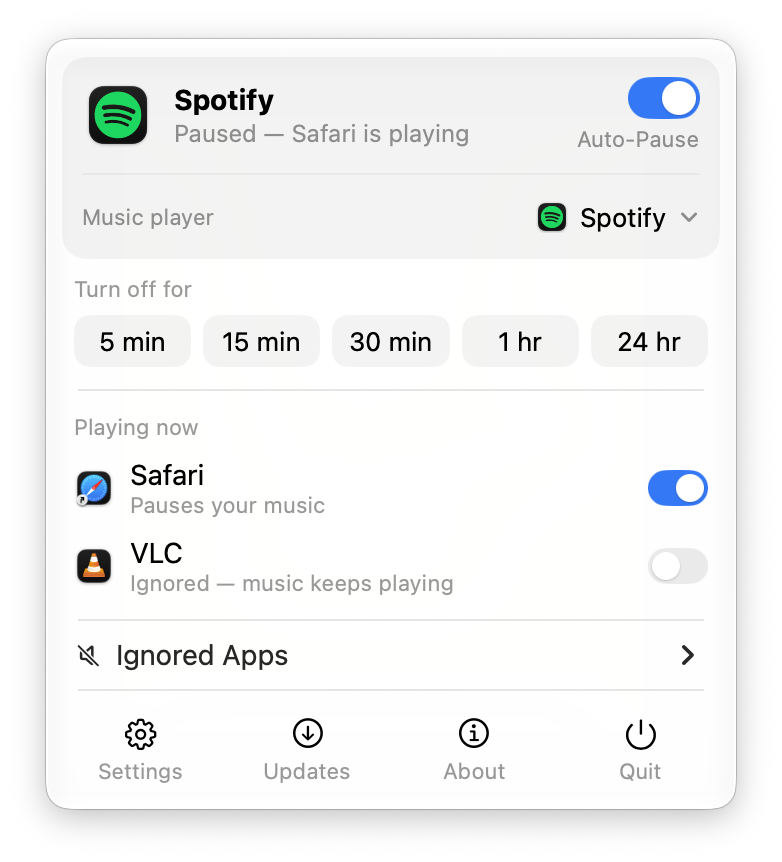
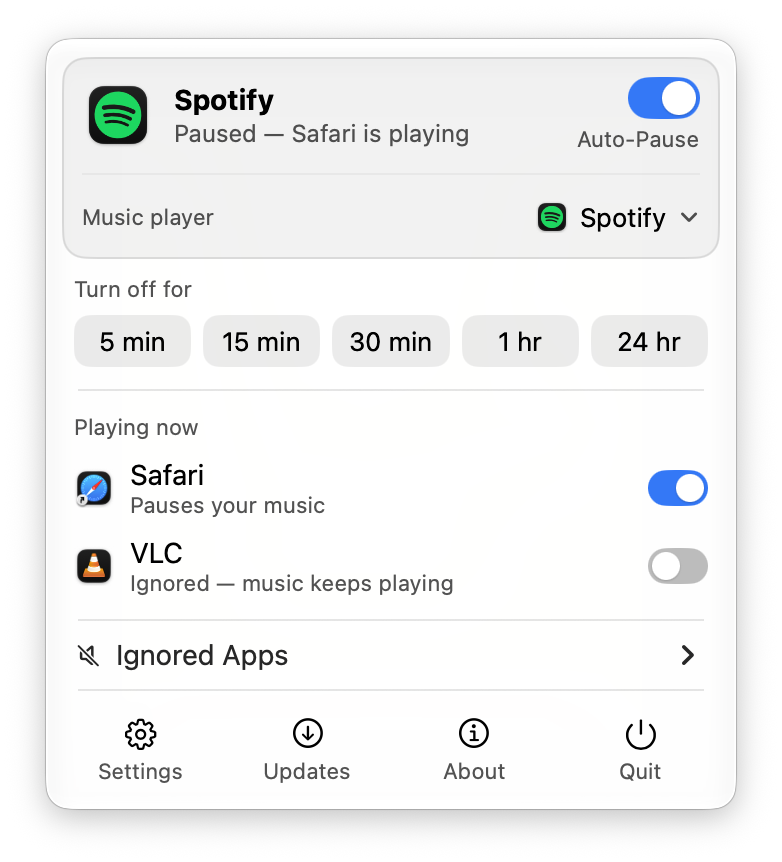
feat: easier to read in light mode
Descriptions, labels and warnings in the menu, Settings and the welcome
window were faint in light mode: secondary text measured 2.4:1 against
the menu's white, the orange warning 2.1:1, and cards and switches that
are off barely showed. Their colors are now named styles with a light
and a dark value. In light mode, text is darker (5.5:1 or more), the
warning a deeper orange (4.75:1), and cards have an outline. Chips and
switches that are off are a step darker. Dark mode is unchanged. The
README's light screenshots show the new look.

diff --git a/Sources/AutoHushApp/General/CardStyles.swift b/Sources/AutoHushApp/General/CardStyles.swift
@@ -17,6 +17,59 @@ extension Font {
     static let appCaption = Font.system(size: 11)
 }
 
+/// A style with one value in light mode and another in dark mode. The
+/// system's secondary text, orange and fills are too faint in light mode,
+/// on the menu's white and on Settings' grey, so light mode gets darker ones;
+/// dark mode keeps the system's.
+struct AppearanceStyle: ShapeStyle {
+    let light: AnyShapeStyle
+    let dark: AnyShapeStyle
+
+    init(light: some ShapeStyle, dark: some ShapeStyle) {
+        self.light = AnyShapeStyle(light)
+        self.dark = AnyShapeStyle(dark)
+    }
+
+    func resolve(in environment: EnvironmentValues) -> AnyShapeStyle {
+        environment.colorScheme == .dark ? dark : light
+    }
+}
+
+/// The colors the menu, Settings and the welcome window share. In light
+/// mode, text keeps a contrast of at least 4.5:1 against its background.
+extension ShapeStyle where Self == AppearanceStyle {
+    /// Descriptions under rows, section labels and captions.
+    static var appSecondary: AppearanceStyle {
+        AppearanceStyle(light: Color.black.opacity(0.68), dark: .secondary)
+    }
+    /// Text and icons that need the user's attention: a deep orange in light
+    /// mode, where the system's is hard to read.
+    static var appWarning: AppearanceStyle {
+        AppearanceStyle(light: Color(red: 0xB0 / 255, green: 0x30 / 255, blue: 0), dark: .orange)
+    }
+    /// A card's background.
+    static var cardFill: AppearanceStyle {
+        AppearanceStyle(light: Color.black.opacity(0.05), dark: .quaternary.opacity(0.6))
+    }
+    /// A card's outline: in light mode only, where the fill alone barely
+    /// shows against the menu's white.
+    static var cardBorder: AppearanceStyle {
+        AppearanceStyle(light: Color.black.opacity(0.1), dark: Color.clear)
+    }
+    /// A filled chip's background, at rest.
+    static var chipFill: AppearanceStyle {
+        AppearanceStyle(light: Color.black.opacity(0.08), dark: .quaternary.opacity(0.6))
+    }
+    /// A chip's background under the pointer: a step above `chipFill`.
+    static var chipHoverFill: AppearanceStyle {
+        AppearanceStyle(light: Color.black.opacity(0.13), dark: .quaternary)
+    }
+    /// A switch's track while it's off.
+    static var switchOffFill: AppearanceStyle {
+        AppearanceStyle(light: Color.black.opacity(0.26), dark: .quaternary)
+    }
+}
+
 /// A switch drawn in the accent color, the same in the menu and in Settings.
 /// The system's switch would be grey in the menu: menus draw it inactive,
 /// since AutoHush doesn't become the active app when its menu opens.
@@ -27,7 +80,7 @@ struct PillToggleStyle: ToggleStyle {
     func makeBody(configuration: Configuration) -> some View {
         Button { configuration.isOn.toggle() } label: {
             Capsule()
-                .fill(configuration.isOn ? AnyShapeStyle(Color.accentColor) : AnyShapeStyle(.quaternary))
+                .fill(configuration.isOn ? AnyShapeStyle(Color.accentColor) : AnyShapeStyle(.switchOffFill))
                 .frame(width: width, height: height)
                 .overlay(alignment: configuration.isOn ? .trailing : .leading) {
                     Circle().fill(.white).shadow(color: .black.opacity(0.2), radius: 0.5, y: 0.5).padding(2)
@@ -81,10 +134,10 @@ struct ChipButtonStyle: ButtonStyle {
 
         private var fill: AnyShapeStyle {
             if isSelected { return AnyShapeStyle(Color.accentColor.opacity(isPressed ? 0.8 : 1)) }
-            guard isEnabled else { return filled ? AnyShapeStyle(.quaternary.opacity(0.6)) : AnyShapeStyle(.clear) }
+            guard isEnabled else { return filled ? AnyShapeStyle(.chipFill) : AnyShapeStyle(.clear) }
             if isPressed { return AnyShapeStyle(.tertiary) }
-            if isHovered { return AnyShapeStyle(.quaternary) }
-            return filled ? AnyShapeStyle(.quaternary.opacity(0.6)) : AnyShapeStyle(.clear)
+            if isHovered { return AnyShapeStyle(.chipHoverFill) }
+            return filled ? AnyShapeStyle(.chipFill) : AnyShapeStyle(.clear)
         }
     }
 }
@@ -101,7 +154,7 @@ struct SectionLabel: View {
     init(_ title: Text) { self.title = title }
 
     var body: some View {
-        title.font(.appCaption).foregroundStyle(.secondary)
+        title.font(.appCaption).foregroundStyle(.appSecondary)
     }
 }
 
@@ -115,7 +168,8 @@ struct Card<Content: View>: View {
         VStack(alignment: .leading, spacing: 10) { content }
             .padding(padding)
             .frame(maxWidth: .infinity, alignment: .leading)
-            .background(RoundedRectangle(cornerRadius: 12).fill(.quaternary.opacity(0.6)))
+            .background(RoundedRectangle(cornerRadius: 12).fill(.cardFill))
+            .overlay(RoundedRectangle(cornerRadius: 12).strokeBorder(.cardBorder, lineWidth: 1))
     }
 }
 
@@ -164,7 +218,7 @@ struct RowTitle: View {
             if let subtitle {
                 subtitle
                     .font(.appCaption)
-                    .foregroundStyle(.secondary)
+                    .foregroundStyle(.appSecondary)
                     .fixedSize(horizontal: false, vertical: true)
             }
         }

diff --git a/Sources/AutoHushApp/Settings/Views/GeneralSettingsView.swift b/Sources/AutoHushApp/Settings/Views/GeneralSettingsView.swift
@@ -34,7 +34,7 @@ struct GeneralSettingsView: View {
                 if let note = model.autoPauseNote {
                     Text(note)
                         .font(.appCaption)
-                        .foregroundStyle(.secondary)
+                        .foregroundStyle(.appSecondary)
                 }
                 CardDivider()
                 HStack {
@@ -96,7 +96,7 @@ struct GeneralSettingsView: View {
                     // Blinks bright after a click on a choice that needs notifications.
                     Text("Notifications are off for AutoHush, so it can't tell you about updates.")
                         .font(.appCaption)
-                        .foregroundStyle(model.notificationsNoteIsLit ? AnyShapeStyle(.primary) : AnyShapeStyle(.secondary))
+                        .foregroundStyle(model.notificationsNoteIsLit ? AnyShapeStyle(.primary) : AnyShapeStyle(.appSecondary))
                         .fixedSize(horizontal: false, vertical: true)
                     Button("Open Notifications Settings…") { model.openNotificationSettings() }
                         .buttonStyle(.chip)
@@ -126,7 +126,7 @@ struct GeneralSettingsView: View {
     private func explanation(_ text: String) -> some View {
         Text(text)
             .font(.appCaption)
-            .foregroundStyle(.secondary)
+            .foregroundStyle(.appSecondary)
             .fixedSize(horizontal: false, vertical: true)
     }
 
@@ -140,7 +140,7 @@ struct GeneralSettingsView: View {
             } icon: {
                 Image(systemName: "cup.and.saucer")
             }
-            .foregroundStyle(.secondary)
+            .foregroundStyle(.appSecondary)
             Link(destination: ProjectInfo.supportPage) {
                 Text("Buy me a coffee",
                      comment: "Link to the developer's Buy Me a Coffee page (About panel, Settings → General)")

diff --git a/Sources/AutoHushApp/MenuBar/Views/StatusCardView.swift b/Sources/AutoHushApp/MenuBar/Views/StatusCardView.swift
@@ -18,7 +18,7 @@ struct StatusCardView: View {
                         .lineLimit(1)
                     Text(verbatim: status.statusLine)
                         .font(.appSubheadline)
-                        .foregroundStyle(status.needsAttention ? AnyShapeStyle(.orange) : AnyShapeStyle(.secondary))
+                        .foregroundStyle(status.needsAttention ? AnyShapeStyle(.appWarning) : AnyShapeStyle(.appSecondary))
                         .fixedSize(horizontal: false, vertical: true)
                     if status.canRetry { retryButton }
                 }
@@ -30,7 +30,7 @@ struct StatusCardView: View {
                     .toggleStyle(PillToggleStyle())
                     Text("Auto-Pause", comment: "Under the switch at the top of the menu that turns auto-pause on and off")
                         .font(.appCaption)
-                        .foregroundStyle(.secondary)
+                        .foregroundStyle(.appSecondary)
                         .accessibilityHidden(true)
                 }
             }
@@ -72,7 +72,7 @@ struct StatusCardView: View {
                     .font(.appCallout)
                 Image(systemName: model.isChoosingPlayer ? "chevron.up" : "chevron.down")
                     .font(.system(size: 9, weight: .bold))
-                    .foregroundStyle(.secondary)
+                    .foregroundStyle(.appSecondary)
             }
             .padding(.horizontal, 6)
             .padding(.vertical, 3)

diff --git a/Sources/AutoHushApp/Settings/Views/AppsSettingsView.swift b/Sources/AutoHushApp/Settings/Views/AppsSettingsView.swift
@@ -18,7 +18,7 @@ struct AppsSettingsView: View {
                     Card {
                         if model.apps.isEmpty {
                             Text("Apps appear here once they have played audio.")
-                                .foregroundStyle(.secondary)
+                                .foregroundStyle(.appSecondary)
                         }
                         ForEach(Array(model.apps.enumerated()), id: \.element.id) { index, row in
                             if index > 0 { CardDivider() }
@@ -27,7 +27,7 @@ struct AppsSettingsView: View {
                     }
                     Text("Turn an app off to keep your music playing while it makes sound. Right-click an app to remove it from the list.")
                         .font(.appCaption)
-                        .foregroundStyle(.secondary)
+                        .foregroundStyle(.appSecondary)
                         .fixedSize(horizontal: false, vertical: true)
                         .padding(.horizontal, 4)
                 }

diff --git a/Sources/AutoHushApp/Settings/Views/DiagnosticsSettingsView.swift b/Sources/AutoHushApp/Settings/Views/DiagnosticsSettingsView.swift
@@ -19,7 +19,7 @@ struct DiagnosticsSettingsView: View {
                     }
                 } else {
                     Text(verbatim: DiagnosticsReport.noAudio)
-                        .foregroundStyle(.secondary)
+                        .foregroundStyle(.appSecondary)
                 }
             }
 
@@ -39,7 +39,7 @@ struct DiagnosticsSettingsView: View {
                         Image(systemName: "checkmark")
                     }
                     .font(.appCallout)
-                    .foregroundStyle(.secondary)
+                    .foregroundStyle(.appSecondary)
                 }
                 Spacer()
                 Button {
@@ -75,7 +75,7 @@ struct DiagnosticsSettingsView: View {
             if let evidence = app.evidence {
                 Text(verbatim: evidence)
                     .monospacedDigit()
-                    .foregroundStyle(.secondary)
+                    .foregroundStyle(.appSecondary)
             }
         }
     }

diff --git a/Sources/AutoHushApp/General/NoteLabel.swift b/Sources/AutoHushApp/General/NoteLabel.swift
@@ -23,14 +23,14 @@ struct NoteLabel: View {
             switch kind {
             case .warning:
                 Image(systemName: "exclamationmark.triangle.fill")
-                    .foregroundStyle(.orange)
+                    .foregroundStyle(.appWarning)
             case .info:
                 Image(systemName: "info.circle")
-                    .foregroundStyle(.secondary)
+                    .foregroundStyle(.appSecondary)
             }
         }
         .font(.appCallout)
-        .foregroundStyle(kind == .info ? AnyShapeStyle(.secondary) : AnyShapeStyle(.primary))
+        .foregroundStyle(kind == .info ? AnyShapeStyle(.appSecondary) : AnyShapeStyle(.primary))
         .fixedSize(horizontal: false, vertical: true)
     }
 }

diff --git a/Sources/AutoHushApp/Settings/Views/AdvancedSettingsView.swift b/Sources/AutoHushApp/Settings/Views/AdvancedSettingsView.swift
@@ -97,7 +97,7 @@ struct AdvancedSettingsView: View {
                 Spacer()
                 Text(format(model.timings[keyPath: keyPath]))
                     .monospacedDigit()
-                    .foregroundStyle(.secondary)
+                    .foregroundStyle(.appSecondary)
             }
             Slider(
                 value: Binding(
@@ -113,7 +113,7 @@ struct AdvancedSettingsView: View {
             )
             Text(help)
                 .font(.appCaption)
-                .foregroundStyle(.secondary)
+                .foregroundStyle(.appSecondary)
                 .fixedSize(horizontal: false, vertical: true)
         }
     }

diff --git a/Sources/AutoHushApp/PlayerChoice/PlayerChooserWindowController.swift b/Sources/AutoHushApp/PlayerChoice/PlayerChooserWindowController.swift
@@ -60,7 +60,7 @@ struct PlayerChooserView: View {
                 .font(.appTitle)
             Text("AutoHush pauses it while other apps play audio, and resumes it afterwards. You can change it at any time in the menu or in Settings.")
                 .multilineTextAlignment(.center)
-                .foregroundStyle(.secondary)
+                .foregroundStyle(.appSecondary)
                 .fixedSize(horizontal: false, vertical: true)
             Card {
                 ForEach(Array(model.playerOptions.enumerated()), id: \.element.id) { index, option in

diff --git a/Sources/AutoHushApp/MenuBar/Views/MenuToolbarView.swift b/Sources/AutoHushApp/MenuBar/Views/MenuToolbarView.swift
@@ -31,7 +31,7 @@ struct MenuToolbarView: View {
                     .foregroundStyle(tint.map(AnyShapeStyle.init) ?? AnyShapeStyle(.primary))
                 title
                     .font(.appCaption)
-                    .foregroundStyle(.secondary)
+                    .foregroundStyle(.appSecondary)
                     .lineLimit(1)
                     .minimumScaleFactor(0.8)
             }

diff --git a/Sources/AutoHushApp/MenuBar/Views/PlayingAppsView.swift b/Sources/AutoHushApp/MenuBar/Views/PlayingAppsView.swift
@@ -34,7 +34,7 @@ struct PlayingAppsView: View {
                     }
                 }
                 .font(.appCaption)
-                .foregroundStyle(.secondary)
+                .foregroundStyle(.appSecondary)
             }
             Spacer(minLength: 8)
             Toggle(isOn: Binding(get: { pausesMusic }, set: { model.perform(.setIgnored(source, !$0)) })) {

diff --git a/CHANGELOG.md b/CHANGELOG.md
@@ -5,6 +5,14 @@ This project follows [Semantic Versioning](https://semver.org/).
 
 ---
 
+## [Unreleased]
+
+### Changed
+
+- **Easier to read in light mode**: descriptions, labels and warnings are
+  darker, cards have an outline, and switches that are off show their
+  track. Dark mode is unchanged.
+
 ## [0.6.0] — 2026-10-05
 
 ### Added
